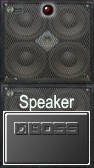
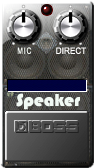
new spkr stomp + split naming

diff --git a/stompbox_rv.cpp b/stompbox_rv.cpp
@@ -28,12 +28,16 @@ stompbox_rv::stompbox_rv(QWidget *parent)
 	/* REVERB */
 	setImage(":/images/rv.png");
 	setLSB("04", "00");
+	setKnob1("04", "00", "14");
+	setKnob2("04", "00", "15");
 	setComboBox("04", "00", "12");
 	setButton("04", "00", "10");
 };
 
 void stompbox_rv::updateSignal()
 {
+	updateKnob1("04", "00", "14");
+	updateKnob2("04", "00", "15");
 	updateComboBox("04", "00", "12");
 	updateButton("04", "00", "10");
 };

diff --git a/stompBox.cpp b/stompBox.cpp
@@ -547,6 +547,11 @@ void stompBox::emitValueChanged(QString hex1, QString hex2, QString hex3, QStrin
 	{
 		fxName = "Bugger!!!";
 	};
+	//Midi items = midiTable->getMidiMap("Stucture", hex1, hex2, hex3);
+			if(hex1 == "04" && hex3 >= "10") // NoiseSuppressor is part of MASTER -> correcting the name for consistency.
+			{
+				this->fxName = "Speaker Cabinet";
+			}
 	emit valueChanged(this->fxName, valueName, valueStr);
 };
 
